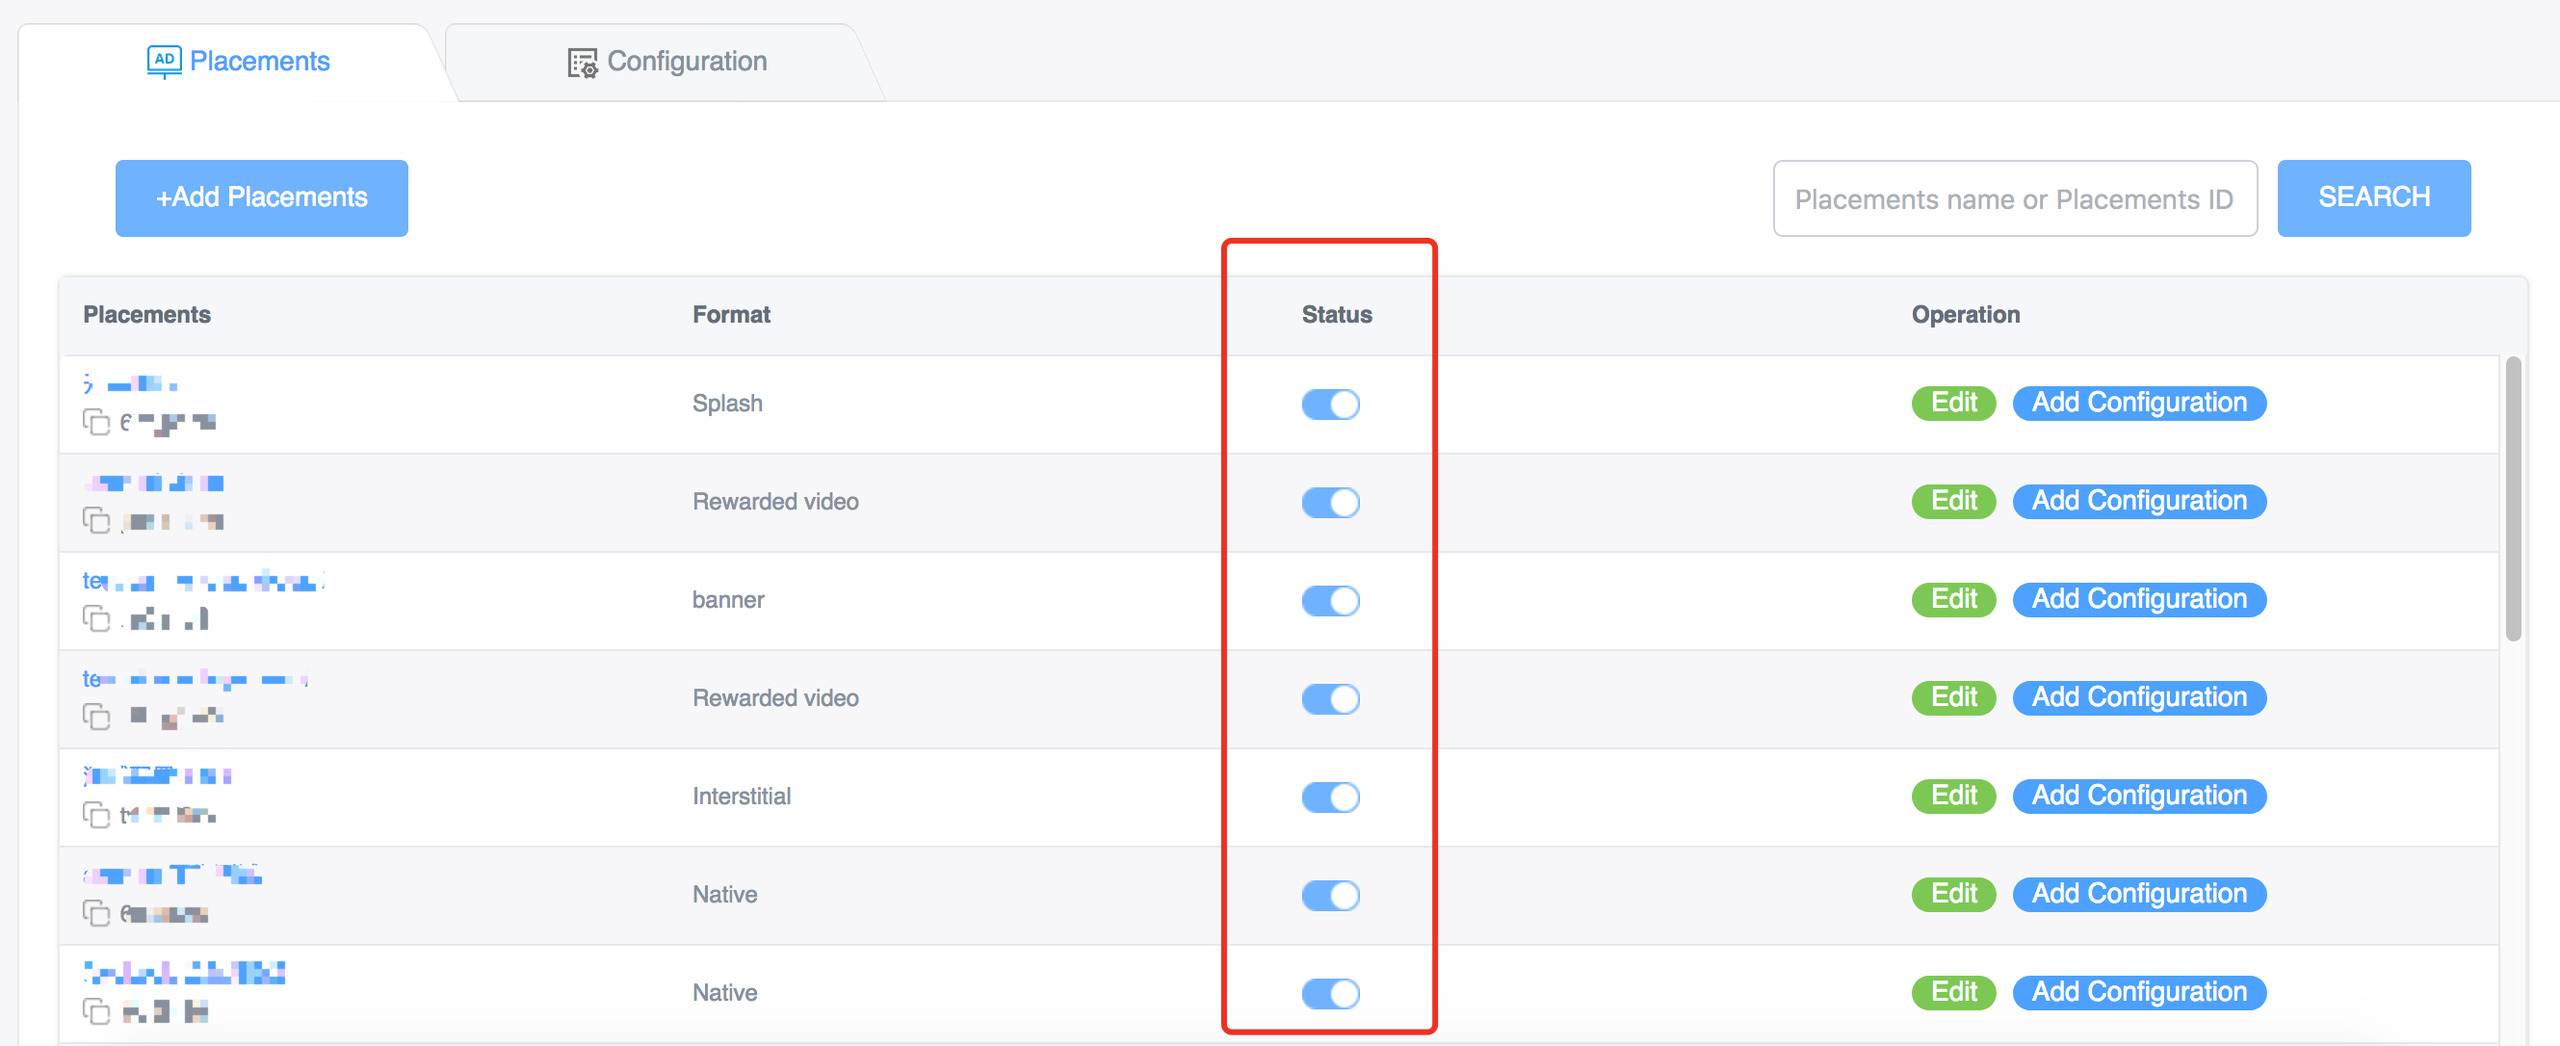
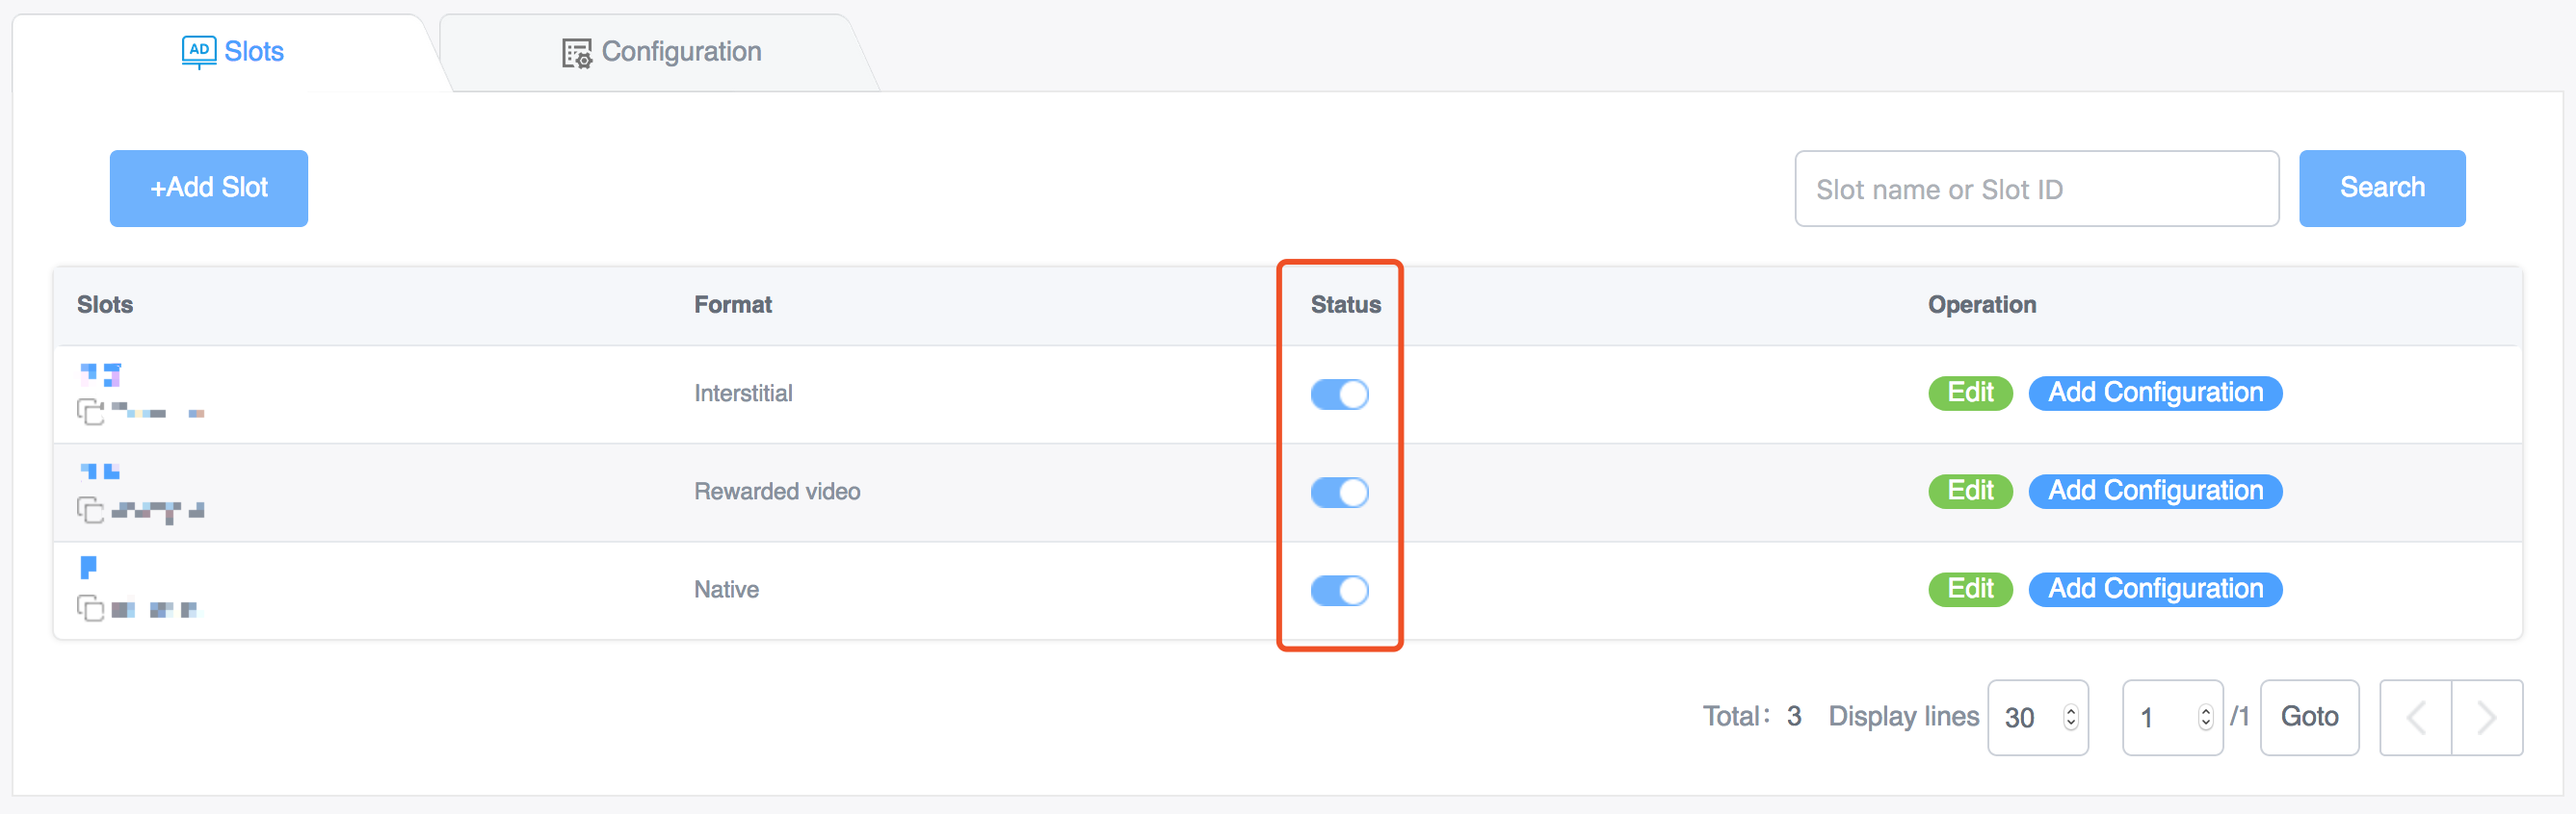
update content and picture

diff --git a/FAQ_latest_en.md b/FAQ_latest_en.md
@@ -2,11 +2,11 @@
 
 - [YumiMediationSDK Q&A](#yumimediationsdk-qa)
     - [System Operation](#system-operation)
-        - [Can I  test my app when it is under review?](#can-i--test-my-app-when-it-is-under-review)
+        - [Can I  test my app when the app status is Pending Approval?](#can-i--test-my-app-when-the-app-status-is-pending-approval)
         - [How to pause monetization?](#how-to-pause-monetization)
         - [Why there's a popup saying "The ad bit KEY has been used" when I am adding or modifying a configuration?](#why-theres-a-popup-saying-the-ad-bit-key-has-been-used-when-i-am-adding-or-modifying-a-configuration)
     - [Statistics](#statistics)
-        - [When will you update the ad data and the revenue data?](#when-will-you-update-the-ad-data-and-the-revenue-data)
+        - [Can I see a real-time ad data and revenue data?](#can-i-see-a-real-time-ad-data-and-revenue-data)
         - [The data or revenue did not update on time. What should I do?](#the-data-or-revenue-did-not-update-on-time-what-should-i-do)
         - [Why does eCPM fluctuate?](#why-does-ecpm-fluctuate)
         - [What charging method do you use?](#what-charging-method-do-you-use)
@@ -44,12 +44,12 @@
 
 # YumiMediationSDK Q&A
 ## System Operation
-### Can I  test my app when it is under review? 
+### Can I  test my app when the app status is Pending Approval? 
 You can not test your app until it passes the review, but you can use test ID (Click to view [iOS test ID](https://github.com/yumimobi/YumiMediationSDKDemo-iOS/blob/master/normalDocuments/YumiMediationSDK%20for%20iOS(en).md#TEST-ID), [Android test ID](https://github.com/yumimobi/YumiMediationSDKDemo-Android/blob/master/docs/YumiMediationSDK%20for%20Android(en).md#52-test-ad-slot)) to test. The test ID will not generate incomes. 
   ![pending](imgs/imgs/pending_en.png)
 
 ### How to pause monetization? 
-We provide status control of placements in our [Self-service System](https://ssp.yumimobi.com/?&oauth=dev_oauth#/app/appList/). To pause your placements' monetization, you need to switch off the status button in the Placements List. Please be noted that pausing the placement will affect your incomes immediately, so it is necessary to consider carefully before doing this.
+We provide status control of slots in our [Self-service System](https://ssp.yumimobi.com/?&oauth=dev_oauth#/app/appList/). To pause your slots' monetization, you need to switch off the status button in the Slots List. Please be noted that pausing the slot will affect your incomes immediately, so it is necessary to consider carefully before doing this.
   ![pause](imgs/imgs/adPlacements_en.png)
 
 ### Why there's a popup saying "The ad bit KEY has been used" when I am adding or modifying a configuration? 
@@ -58,7 +58,7 @@ The ad bit KEY of a network can only be configured to one app. Please make sure 
   ![has been used](imgs/imgs/haveBeenAdded_en.png)
   
 ## Statistics
-### When will you update the ad data and the revenue data? 
+### Can I see a real-time ad data and revenue data? 
 The ad data will be displayed in real-time (with about 2-3 hours delay). The revenue data will be updated at 16:30 on the next day.  
 
 ### The data or revenue did not update on time. What should I do?

diff --git a/README.md b/README.md
@@ -5,7 +5,7 @@
 
 #### 1. [系统使用说明](https://github.com/yumimobi/Developer-doc/blob/master/Developer%20operating%20instructions/%E7%B3%BB%E7%BB%9F%E4%BD%BF%E7%94%A8%E8%AF%B4%E6%98%8E.md)
 
-#### 2. [常见问题](%E5%BC%80%E5%8F%91%E8%80%85%E5%B8%B8%E8%A7%81%E9%97%AE%E9%A2%98.md)
+#### 2. [常见问题](FAQ_latest_cn.md)
 
 #### 3. [Report API数据接口](https://github.com/yumimobi/Developer-doc/blob/master/Report%20%20API%20specification/Report%20Api%20%E6%8E%A5%E5%8F%A3%E6%96%87%E6%A1%A3.md)
 
@@ -15,7 +15,7 @@
 
 #### 1. [Instructions for developer system](https://github.com/yumimobi/Developer-doc/blob/master/Developer%20operating%20instructions/Developer%20Operating%20Instruction.md)
 
-#### 2. [Common issues of developer operating system](https://github.com/yumimobi/Developer-doc/blob/master/Common%20issues%20of%20developer%20operating%20system/Common%20issues%20of%20developer%20operating%20system.md)
+#### 2. [Frequently asked questions](FAQ_latest_en.md)
 
 #### 3. [Report API ](https://github.com/yumimobi/Developer-doc/blob/master/Report%20%20API%20specification/Report%20Api%20instruction.md)
 
